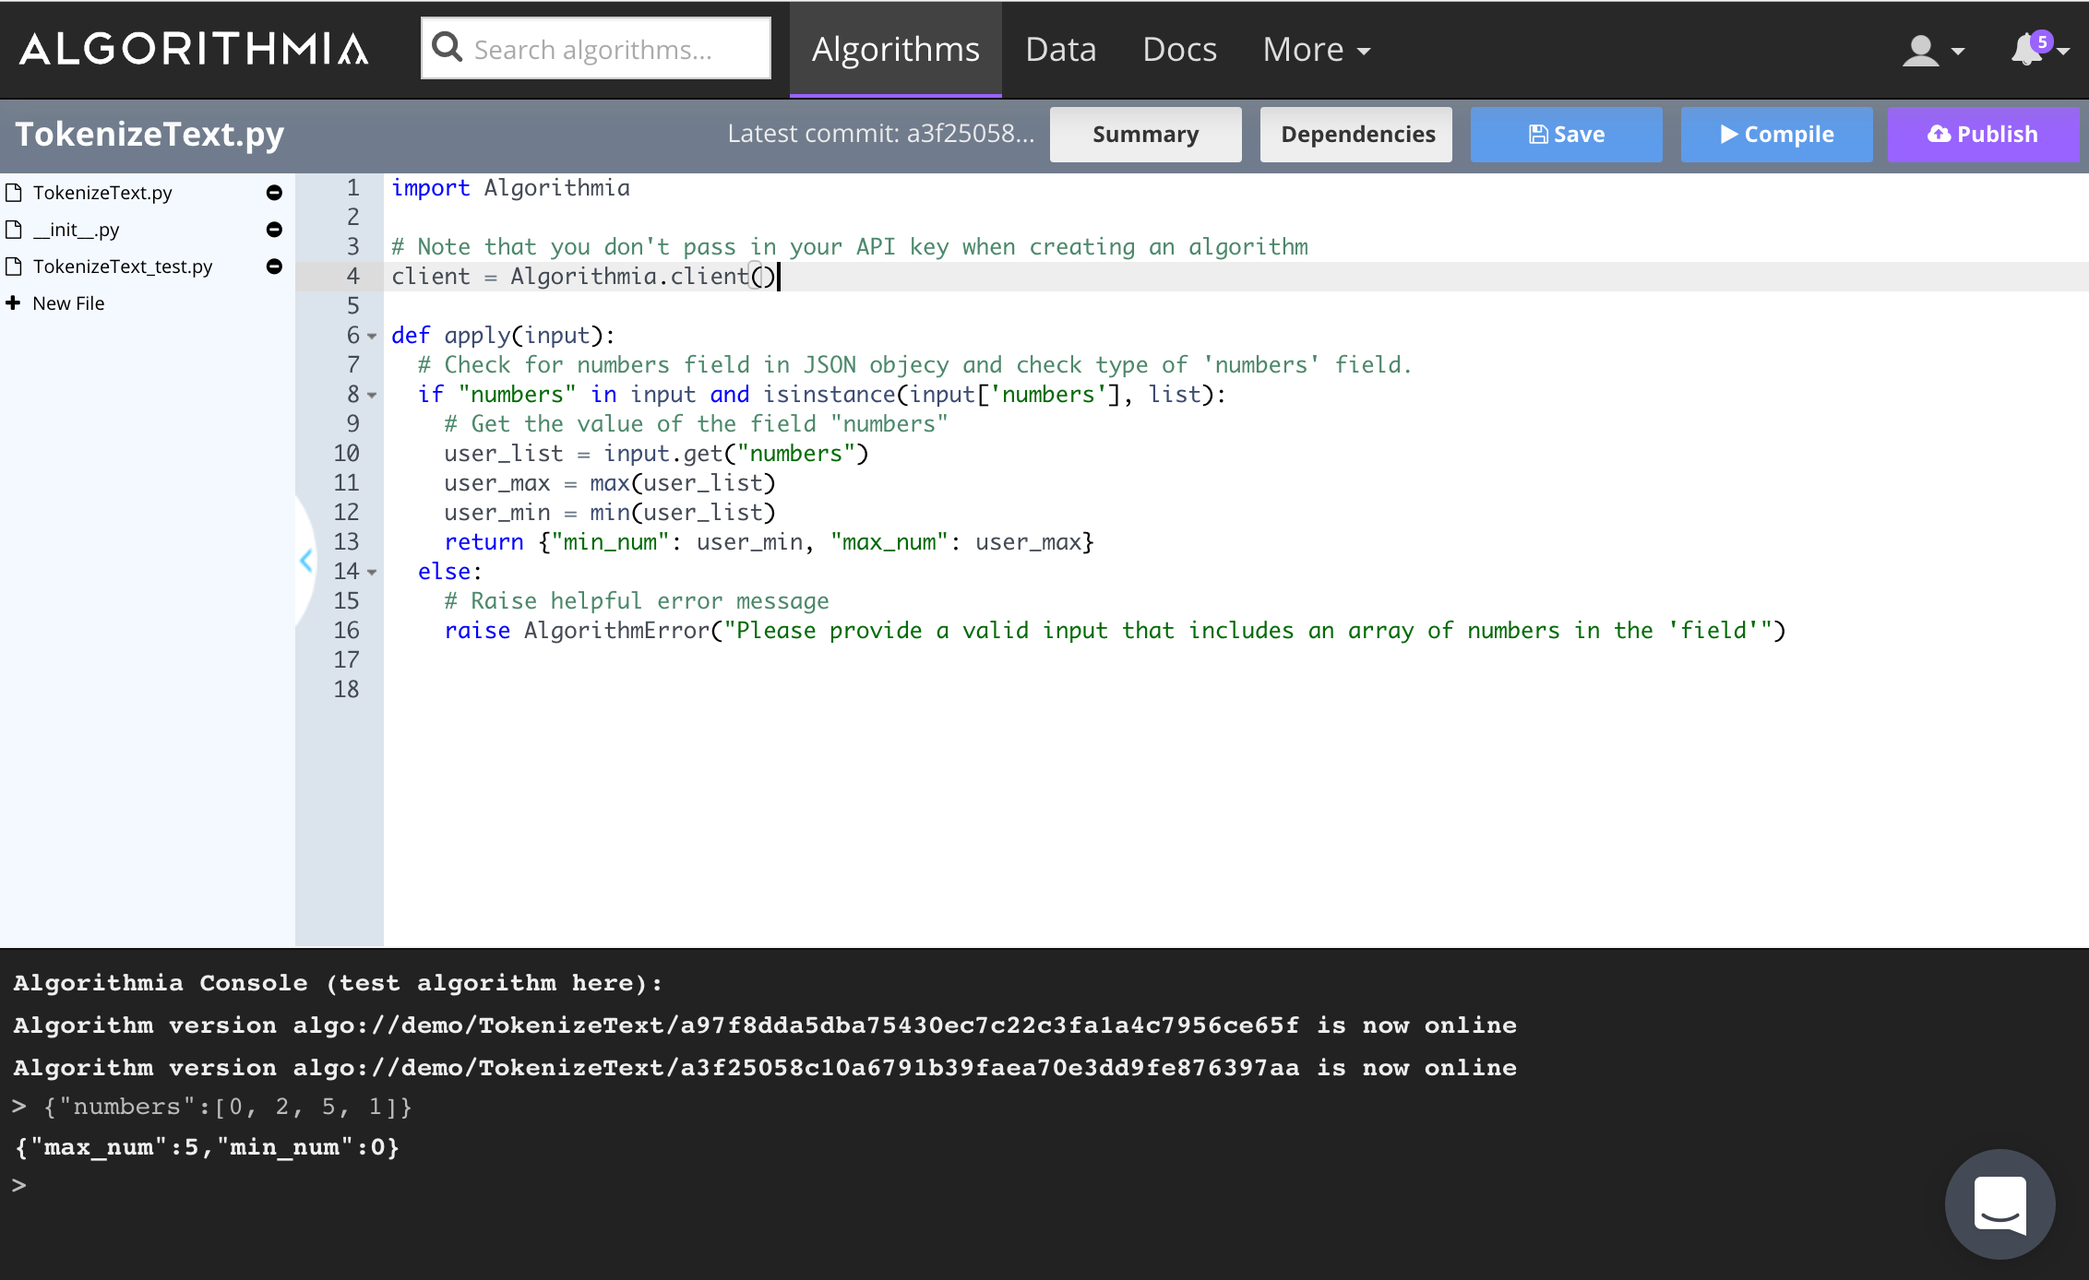
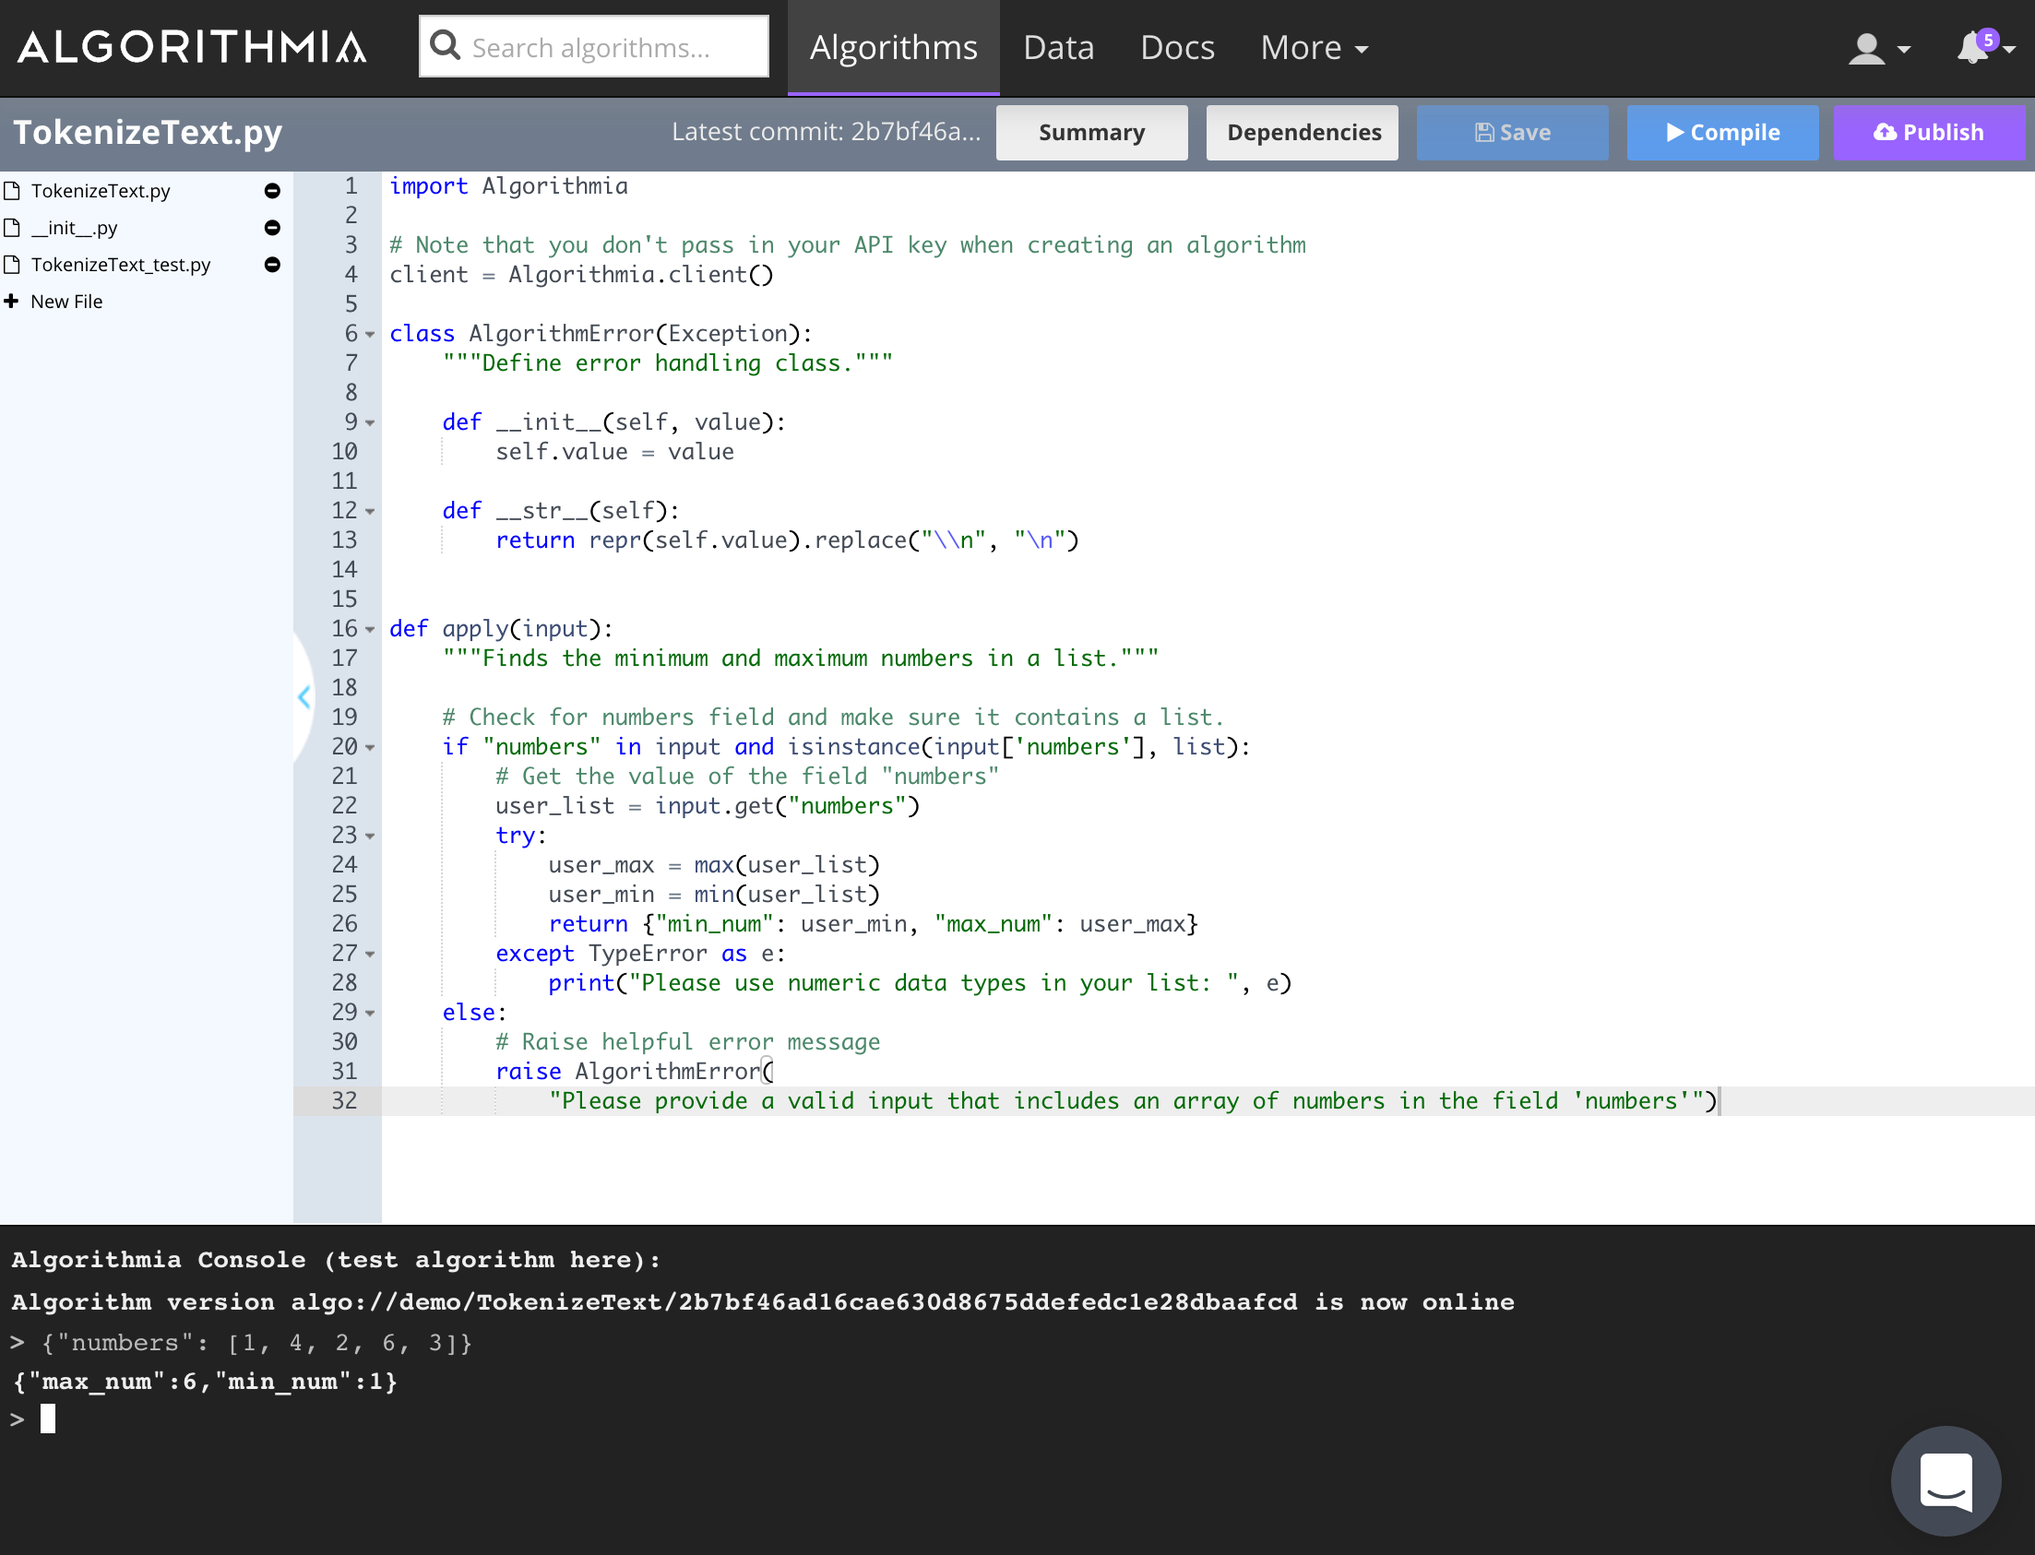
Changes to Python algorithmia guide

diff --git a/_posts/algorithm-development/guides/2016-05-17-python-guide.md b/_posts/algorithm-development/guides/2016-05-17-python-guide.md
@@ -38,7 +38,7 @@ Let's start by creating an algorithm. First navigate to [Algorithmia](https://al
 
 <img src="/images/post_images/algo_dev_lang/add_algorithm_nav.png" alt="Add algorithm navigation" class="screenshot">
 
-Now you'll see a form to fill out to create your algorithm which we'll go through step by step below:
+When you click the "Add Algorithm" button, you'll see a form for creating your algorithm that we'll fill out step by step below:
 
 <img src="/images/post_images/algo_dev_lang/create_algorithm_python.png" alt="Create an algorithm in Python" class="screenshot">
 
@@ -92,24 +92,25 @@ in the main file.
 
 As you can see in your algorithm editor, there is a basic algorithm already written that takes a string as input and returns the string "Hello" followed by the user input.
 
-To run this algorithm first hit the "Compile" button on the top right hand corner of the algorithm editor and then at the bottom of the page in the console you'll see a confirmation that it has compiled and the will say the version number.
-
-Now to test it out, in the console type your name or another string and hit enter on your keyboard:
-
-
-<img src="/images/post_images/algo_dev_lang/run_default_algo.png" alt="Run basic algorithm in console Python" class="screenshot">
-
+To run this algorithm first hit the "Compile" button on the top right hand corner of the algorithm editor and then at the bottom of the page in the console you'll see a confirmation that it has compiled and the version number of that commit.
 
 **Note:** If you are interested in learning more about versioning check out the [Algorithm Basics Section](http://developers.algorithmia.com/basics/algorithm_basics/).
 
+To test the algorithm type your name or another string in the console and hit enter on your keyboard:
+
+<img src="/images/post_images/algo_dev_lang/run_default_algo.png" alt="Run basic algorithm in console Python" class="screenshot">
 
 ## I/O for Your Algorithms
 
-Now that you've compiled and ran a basic algorithm in the console, we'll briefly go through some of the basic inputs and outputs you would expect to work with when creating an algorithm.
+Now that you've compiled and ran a basic algorithm in the console, we'll briefly go through some of the inputs and outputs you would expect to work with when creating an algorithm.
 
-This section will show how to create an algorithm that takes a Python dictionary. The user will pass in a JSON formatted object which is deserialized into a Python dictionary before your algorithm is called.
+This algorithm takes a Python dictionary where the user will be expected to pass in a JSON formatted object which is deserialized into a Python dictionary before your algorithm is called.
 
-This example shows how to find the minimum and maximum of a list of numbers that the user passes in when calling your algorithm:
+It will output a JSON formatted object which the user will consume with an API call to the algorithm path which is found at the bottom of the algorithm description page and is based on your Algorithmia user name and the name of your algorithm.
+
+### Working with Basic Data Structures
+
+This example shows how to find the minimum and maximum of a list of numbers that the user passes in when calling the algorithm:
 
 {% highlight python %}
 import Algorithmia
@@ -117,41 +118,72 @@ import Algorithmia
 # Note that you don't pass in your API key when creating an algorithm
 client = Algorithmia.client()
 
-def apply(input):
-  """Finds the minimum and maximum numbers in a list."""
 
-  # Check for numbers field and make sure it contains a list.
-  if "numbers" in input and isinstance(input['numbers'], list):
-    # Get the value of the field "numbers"
-    user_list = input.get("numbers")
-    user_max = max(user_list)
-    user_min = min(user_list)
-    return {"min_num": user_min, "max_num": user_max}
-  else:
-    # Raise helpful error message
-    raise AlgorithmError("Please provide a valid input that includes an array of numbers in the field 'numbers'")
+class AlgorithmError(Exception):
+    """Define error handling class."""
+
+    def __init__(self, value):
+        self.value = value
+
+    def __str__(self):
+        return repr(self.value).replace("\\n", "\n")
+
+
+def apply(input):
+    """Finds the minimum and maximum numbers in a list."""
+
+    # Check for numbers field and make sure it contains a list.
+    if "numbers" in input and isinstance(input["numbers"], list):
+        # Get the value of the field "numbers"
+        user_list = input.get("numbers")
+        try:
+            user_max = max(user_list)
+            user_min = min(user_list)
+            return {"min_num": user_min, "max_num": user_max}
+        except TypeError as e:
+            print("Please use numeric data types in your list: ", e)
+    else:
+        # Raise helpful error message
+        raise AlgorithmError(
+            "Please provide a valid input that includes an array of numbers in the field 'numbers'")
 
 {% endhighlight %}
 
-You can try this example in your algorithm editor for fun, compile it and test it:
+Go ahead and type or paste the code sample above in the Algorithmia code editor after removing the "Hello World" code.
 
-<img src="/images/post_images/algo_dev_lang/min_max_algorithm.png" alt="Run min_max algorithm in console" class="screenshot">
+Now compile the new code sample and when that's done test the code in the console by passing in the input and hitting enter on your keyboard:
 
-**Note:** Fields that are passed into your algorithm by the user such as scalar values and sequences such as lists, dictionaries, tuples and bytearrays (binary byte sequence such as an image file) can be handled as you would any Python data structure within your algorithm.
+{% highlight python %}
+{"numbers": [1, 4, 2, 6, 3]}
+{% endhighlight %}
 
-For an example that takes and processes image data check out the [Places 365 Classifier's source code](https://algorithmia.com/algorithms/deeplearning/Places365Classifier).
+You should see the minimum and maximum of the numbers in the list returned in the console:
+{% highlight python %}
+{"max_num":6, "min_num":1}
+{% endhighlight %}
 
-This next algorithm shows how to create an algorithm working with a data file that a user has stored using the [Data Portal](https://algorithmia.com/data). 
+### Working with Data Stored on Algorithmia
+
+This next algorithm shows how to create an algorithm working with a data file that a user has stored using Algorithmia's [Hosted Data Source](http://developers.algorithmia.com/algorithm-development/data-sources/hosted-data-guide/). 
 
 **Note:** While users who consume an algorithm have access to both Dropbox and Amazon S3 connectors, algorithm developers can only use the Algorithmia [Hosted Data Source](http://developers.algorithmia.com/algorithm-development/data-sources/hosted-data-guide/) to host data for algorithm development.
 
-This example shows how to create an algorithm that takes a users file stored in a data collection on the Algorithmia platform and tokenizes the text:
+This example shows how to create an algorithm that takes a user's file stored in a data collection on the Algorithmia platform and tokenizes the text:
 
 {% highlight python %}
 import Algorithmia
 
 # Note that you don't pass in your API key when creating an algorithm
 client = Algorithmia.client()
+
+class AlgorithmError(Exception):
+  """Define error handling class."""
+
+    def __init__(self, value):
+        self.value = value
+
+    def __str__(self):
+        return repr(self.value).replace("\\n", "\n")
 
 def apply(input):
     """Take a user file holding text content and return tokenized text."""
@@ -166,20 +198,33 @@ def apply(input):
         # Tokenize each sentence
         tokens = [item.split(" ") for item in sentences if len(item) > 0]
         # Return dictionary of original text and the tokenized text.
-        return {"corpus": corpus, tokens": tokens}
+        return {"corpus": corpus, "tokens": tokens}
     else:
       # Raise helpful error message
       raise AlgorithmError("Please provide a valid input")
 {% endhighlight %}
 
-A user would access the algorithm passing in this as input:
+After you paste the above code into the Algorithmia code editor you can compile and then test the example by passing in a file hosted in data collections.
+
+If you haven't worked with data collections before you can find more information under the [Hosted Data Source](http://developers.algorithmia.com/algorithm-development/data-sources/hosted-data-guide/) documentation.
+
+Following the example below replace the path to your data collection with your user name, data collection name, and data file name which you can find in [My Collections](https://algorithmia.com/data/hosted):
+
 {% highlight python %}
 {"user_file": "data://user_name/data_collection_dir/data_file.txt"}
 {% endhighlight %}
 
+The code above with return both the original text and the tokenized list of each sentence.
+
+This guide uses a chapter from the public domain book [Burning Daylight, by Jack London](https://en.wikisource.org/wiki/Burning_Daylight), but for brevity we'll only show the first sentence in "corpus" and "tokens":
+
+{% highlight python %}
+{"corpus": "It was a quiet night in the Shovel.", "tokens": [['It', 'was', 'a', 'quiet', 'night', 'in', 'the', 'Shovel']]}
+{% endhighlight %}
+
 **NOTE:** When you are creating an algorithm be mindful of the data types you require from the user and the output you return to them. Our advice is to create algorithms that allow for a few different input types such as a file, a sequence or a URL.
 
-## Calling Other Algorithms and Managing Data
+### Calling Other Algorithms and Managing Data
 
 To call other algorithms or manage data from your algorithm, use the <a href="http://developers.algorithmia.com/application-development/client-guides/python/">Algorithmia Python Client</a> which is automatically available to any algorithm you create on the Algorithmia platform. For more detailed information on how to work with data see the [Data API docs](http://docs.algorithmia.com/) and learn about Algorithmia's [Hosted Data Source](http://developers.algorithmia.com/algorithm-development/data-sources/hosted-data-guide/).
 
@@ -191,19 +236,32 @@ import Algorithmia
 # Note that you don't pass in your API key when creating an algorithm
 client = Algorithmia.client()
 
+
+class AlgorithmError(Exception):
+    """Define error handling class."""
+
+    def __init__(self, value):
+        self.value = value
+
+    def __str__(self):
+        return repr(self.value).replace("\\n", "\n")
+
+
 def scrape_web(input):
     """Call algorithm that returns main text content from a URL."""
+
     algo = client.algo("util/Url2Text/0.1.4")
-    if "URL" in input and input["URL"].startswith("http://) or input["URL"].startswith("https://):
-      response = algo.pipe(input).result
-      return response
+    if "URL" in input and input["URL"].startswith("http://") or input["URL"].startswith("https://"):
+        response = algo.pipe(input["URL"]).result
+        return response
     else:
-      # Raise helpful error message
-      raise AlgorithmError("Please provide a valid URL")
+        # Raise helpful error message
+        raise AlgorithmError("Please provide a valid URL")
 
 
 def apply(input):
     """Take user input of URL and return text as tokens."""
+
     corpus = scrape_web(input)
     # Split text into lists of sentences
     sentences = corpus.split(".")
@@ -212,27 +270,41 @@ def apply(input):
     return tokens
 {% endhighlight %}
 
-The user would call the algorithm like this:
+Go ahead and try the above code sample in the Algorithmia code editor and then type the input into the console:
 {% highlight python %}
-{"URL": http://github.com"}
+{"URL": "http://github.com"}
 {% endhighlight %}
 
-**NOTE:** When designing your algorithm, don't forget that there are special data directories, `.session` and `.algo`, that are available only to algorithms to help you manage data over the course of the algorithm execution. 
+This should return a tokenized list of strings:
+
+<img src="/images/post_images/algo_dev_lang/tokenize_url.png" alt="Run basic algorithm in console Python" class="screenshot">
+
+As you can see from these guides fields that are passed into your algorithm by the user such as scalar values and sequences such as lists, dictionaries, tuples and bytearrays (binary byte sequence such as an image file) can be handled as you would any Python data structure within your algorithm.
+
+For an example that takes and processes image data check out the [Places 365 Classifier's source code](https://algorithmia.com/algorithms/deeplearning/Places365Classifier).
 
 ## Error Handling
 
-Here is an example of a simple error handling message:
+In the above code examples we showed how to create an AlgorithmError class which you should use for handling errors within your algorithm. This way the user can tell the difference between a standard Python library error and an error thrown by your algorithm:
 
 {% highlight python %}
-while True:
-    try:
-        x = int(input)
-        break
-    except ValueError as e:
-     	print('Invalid input, please enter a number', e)
+class AlgorithmError(Exception):
+  """Define error handling class."""
+
+    def __init__(self, value):
+        self.value = value
+
+    def __str__(self):
+        return repr(self.value).replace("\\n", "\n")
 {% endhighlight %}
 
-If you are creating an algorithm that relies on calling another algorithm you may use Algorithmia error messages:
+And then raise the error with a helpful error message:
+
+{% highlight python %}
+raise AlgorithmError("Please provide a valid URL")
+{% endhighlight %}
+
+If you are creating an algorithm that relies on calling another algorithm you may use Algorithmia error messages for catching errors thrown by that algorithm:
 
 {% highlight python %}
 import Algorithmia
@@ -248,9 +320,40 @@ except:
     print(algo.pipe(input).error.message)
 {% endhighlight %}
 
-For more information on error handling see the [API Docs](http://docs.algorithmia.com/?python#error-handling).
+For more information on error handling see the [Algorithmia API Docs](http://docs.algorithmia.com/?python#error-handling).
 
-## Additional Resources
+## Algorithm Checklist
 
-* <a href="http://developers.algorithmia.com/clients/python/">Algorithmia Client Python Docs <i class="fa fa-external-link"></i></a>
-* <a href="https://docs.python.org/2.7/">Python 2.7 Docs</a>
+Before you are ready to publish your algorithm it's important to go through this [Algorithm Checklist](http://developers.algorithmia.com/basics/algorithm_checklist/).
+
+It will go over important best practices such as how to create a good algorithm description, add links to external documentation and other important information.
+
+## Publish an Algorithm
+
+Once you've developed your algorithm, you can publish it and make it available for others to use.
+
+On the upper right hand side of the algorithm page you'll see a purple button "Publish" which will bring up a modal:
+
+<img src="/images/post_images/algo_dev_lang/publish_algorithm.png" alt="Publish an algorithm" class="screenshot">
+
+In this dialog, you can select whether your algorithm will be for public use or private use as well as the royalty. The algorithm can either be royalty-free or charge per-call. If you opt to have the algorithm charge a royalty, as the author, you will earn 70% of the royalty cost.
+
+Check out [Algorithm Pricing](http://developers.algorithmia.com/basics/algorithm_basics/#pricing) for more information on how much algorithms will cost to run.
+
+If you are satisfied with your algorithm and settings, go ahead and hit publish. Congratulations, you’re an algorithm developer!
+
+### Editing an Algorithm
+
+Your published algorithm can be edited from the browser, where you can edit the source code, save your work, compile, and submit the algorithm to be available through the API. You can also use [Git to push directly to Algorithmia](http://developers.algorithmia.com/algorithm-development/git-support/) from your current workflow. 
+
+## Conclusion and Resources
+
+In this guide we covered how to create an algorithm, work with different types of data and learned how to publish an algorithm.
+
+For more resources:
+
+* <a href="http://developers.algorithmia.com/clients/python/">Algorithmia Client Python Docs</a>
+* [Hosted Data Source](http://developers.algorithmia.com/algorithm-development/data-sources/hosted-data-guide/)
+* [Algorithmia API Docs](http://docs.algorithmia.com/?python)
+* <a href="https://docs.python.org/2.7/">Python 2.7 Docs <i class="fa fa-external-link"></i></a>
+* <a href="https://docs.python.org/3/">Python 3 Docs <i class="fa fa-external-link"></i></a>
